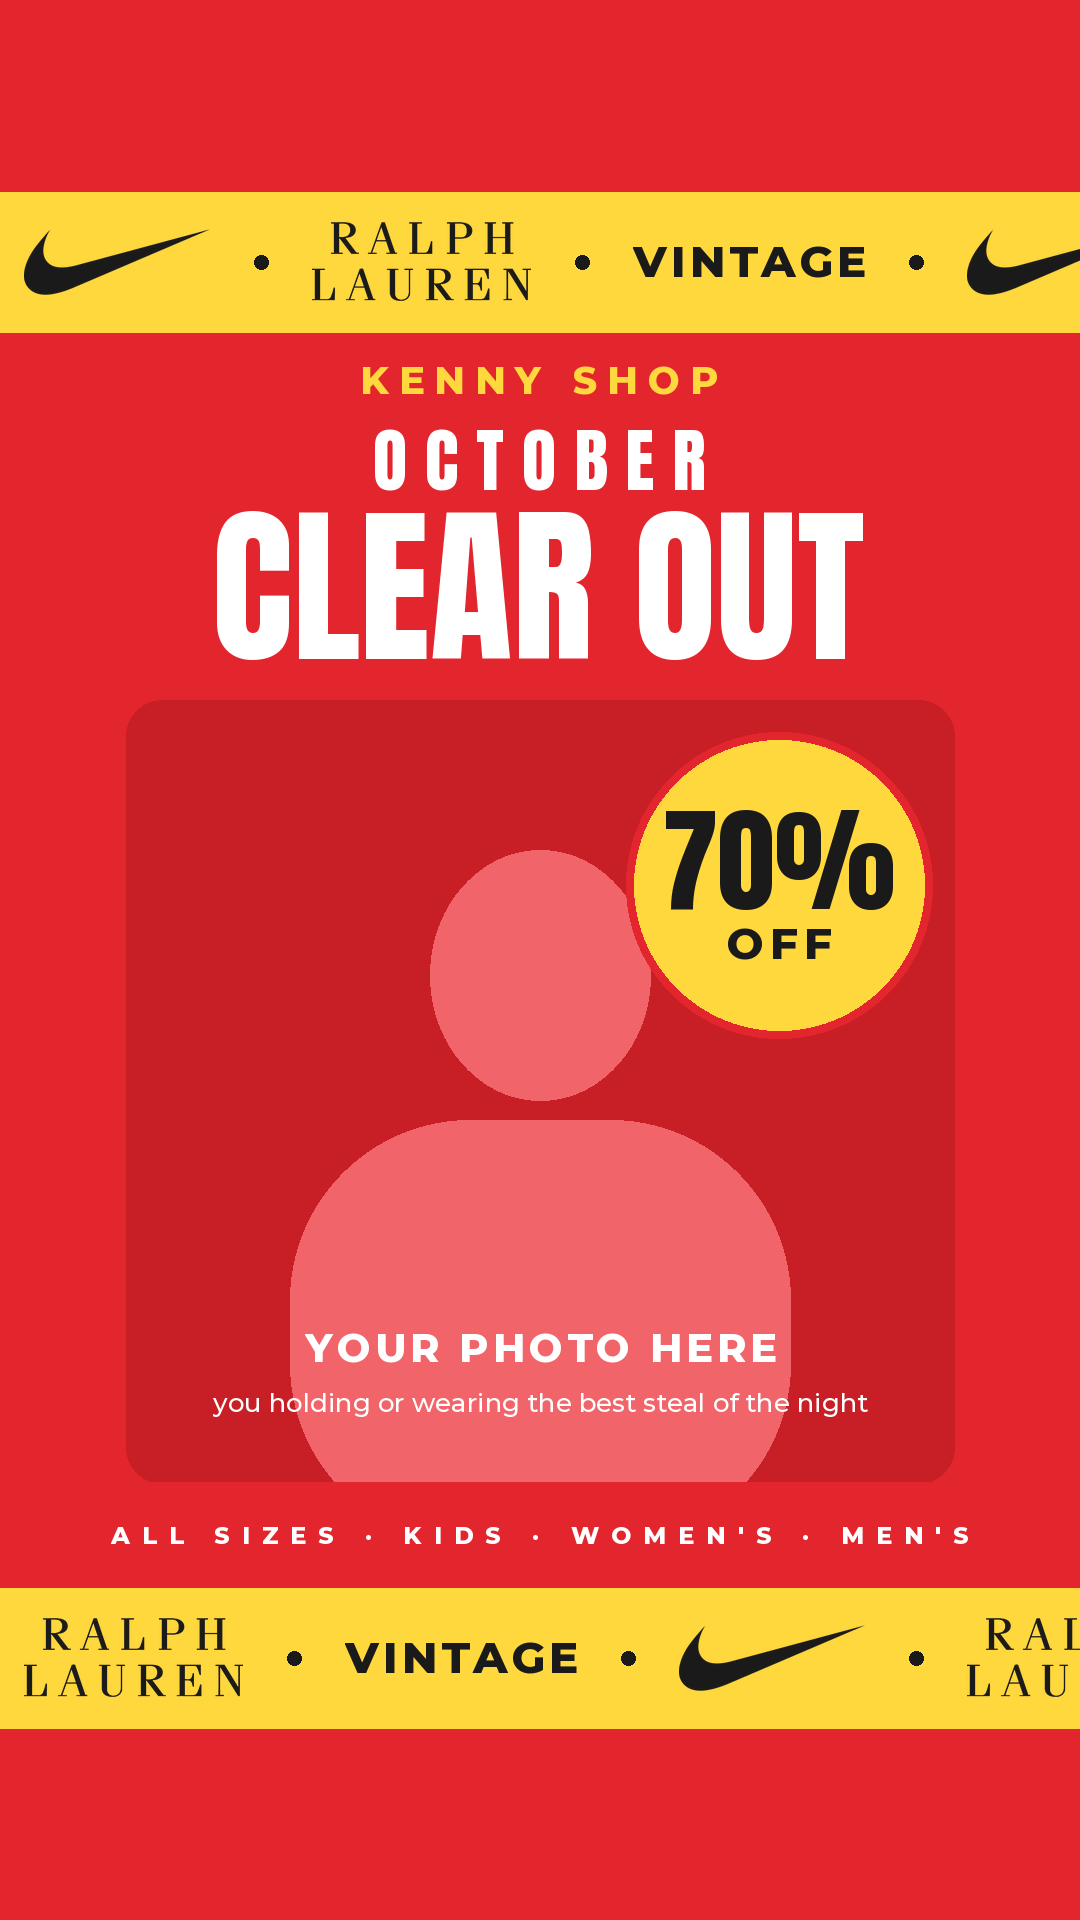
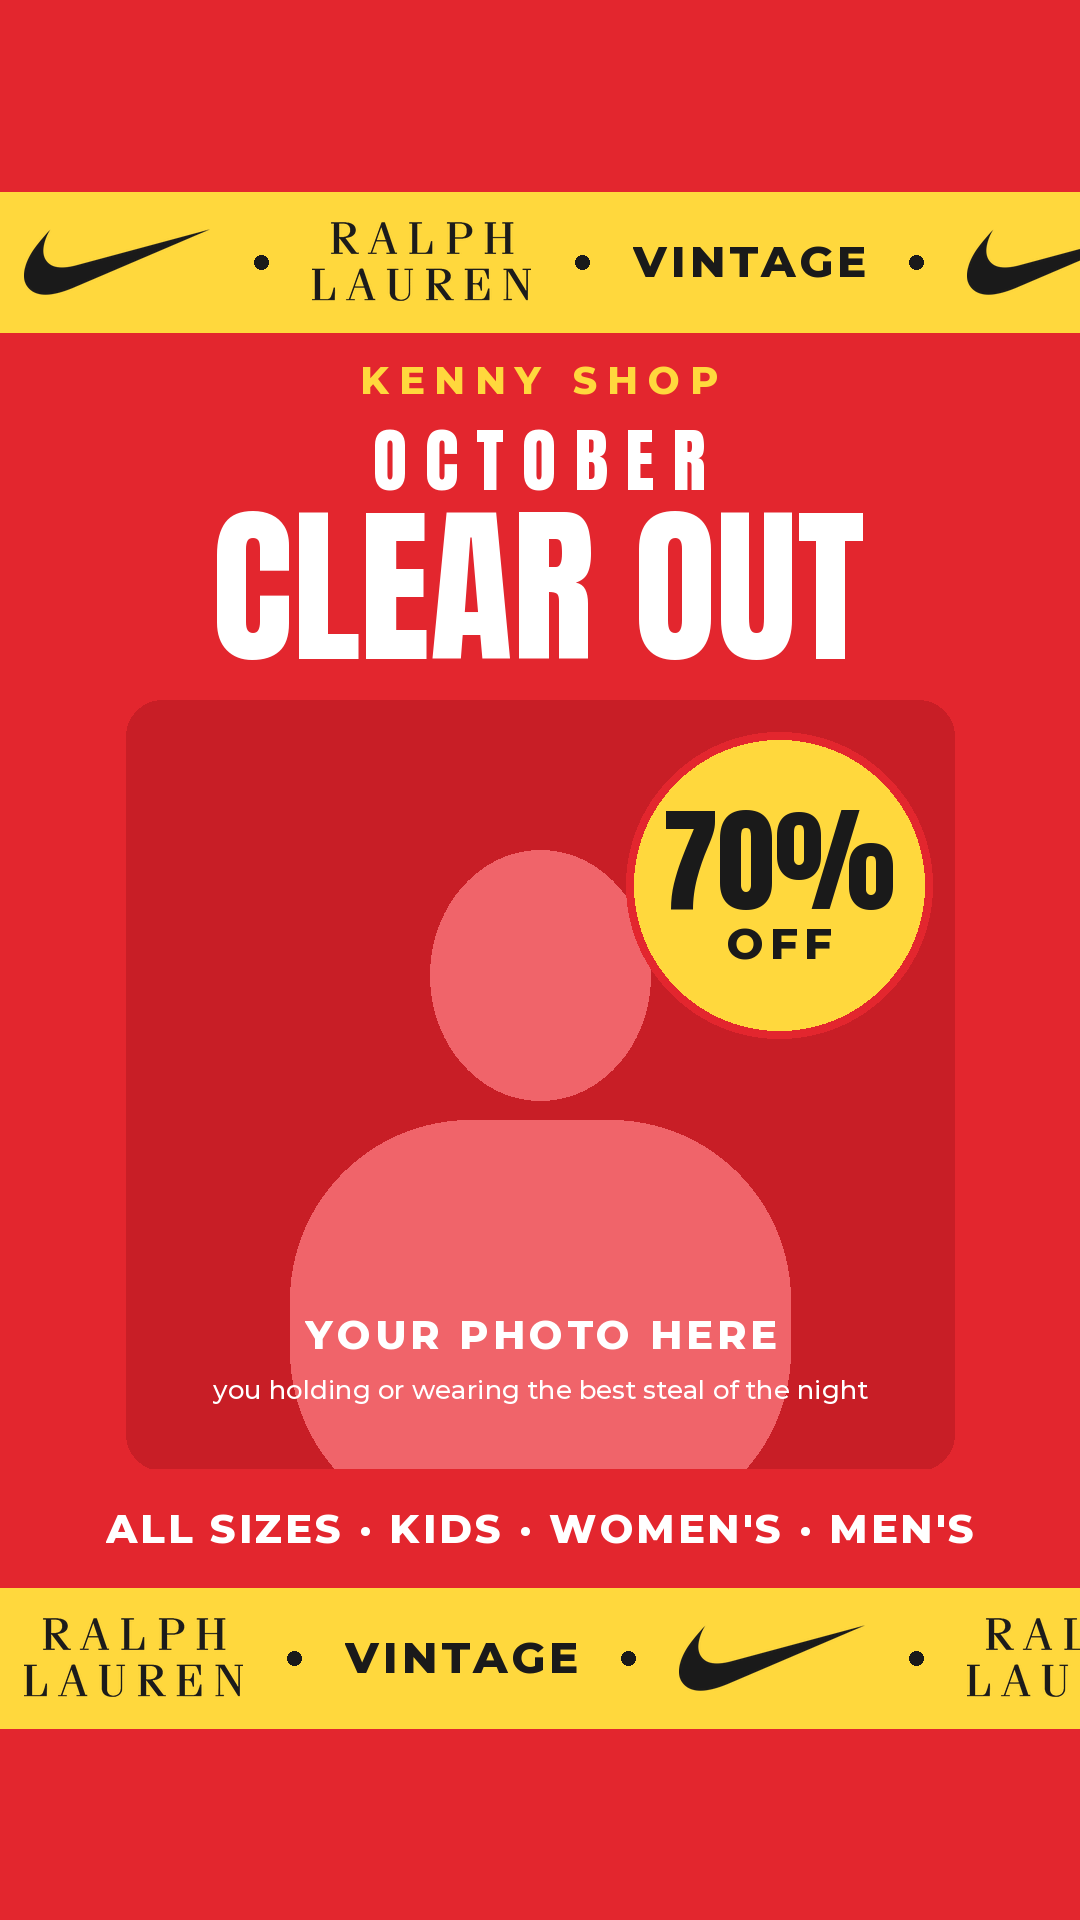
October Clear Out: finished cover with Jade's photo (kept local), bigger sizes line
Claude-Session: https://claude.ai/code/session_01Q51WZ95sB4G4SBq6JMRbx6

Changed region(s): [[0.0917, 0.6875, 0.9167, 0.8125]]

diff --git a/02-branding/whatnot-covers/make_covers.py b/02-branding/whatnot-covers/make_covers.py
@@ -78,7 +78,11 @@ SHOWS["october-clear-out"] = dict(
     top_size=70, badge_big="70%", badge_small="OFF", brand_font=SANS_B,
     brands=["NIKE", "RALPH LAUREN", "VINTAGE"],
     footer="ALL SIZES · KIDS · WOMEN'S · MEN'S", footer_font=SANS_B, footer_size=44, footer_ink="#FFFFFF",
-    photo_hint="you holding or wearing the best steal of the night",
+    footer_spacing=3, photo_hint="you holding or wearing the best steal of the night",
+)
+SHOWS["october-clear-out-photo"] = dict(
+    SHOWS["october-clear-out"], template=False, badge="bottom-right",  # badge off her face
+    photo=HERE / "photos" / "october-clear-out.png", crop=(0, 330, 1320, 1558),
 )
 
 # baby = newborn to 24 months; kids = toddler 2T through big-kid 16 (XL)
@@ -284,12 +288,12 @@ def build(name, s, out=None):
     footer = None
     if s.get("footer"):
         footer = fit_text(s["footer"], s.get("footer_font", SANS_B), inner, s.get("footer_size", 40),
-                          s.get("footer_ink", s["accent"]), spacing=12)
+                          s.get("footer_ink", s["accent"]), spacing=s.get("footer_spacing", 12))
     footer_h = footer.height + 52 if footer else 0
     photo_box = (sx0 + 40, y, sx1 - 40, sy1 - BAND - 36 - footer_h)
     draw_photo(c, s, photo_box)
     # badge="top-right" (default), "top-left" or "bottom-left": wherever it misses faces
-    spot = s.get("badge", "top-right")
+    spot = s.get("badge", "top-right")  # or "bottom-right"
     bx = photo_box[0] + 175 if spot.endswith("left") else photo_box[2] - 175
     by = photo_box[3] - 185 if spot.startswith("bottom") else photo_box[1] + 185
     badge(c, s, bx, by, 145)

diff --git a/02-branding/thumbnail-maker.md b/02-branding/thumbnail-maker.md
@@ -78,7 +78,8 @@ To use a different photo, put it in `photos/` and change `KID_PHOTOS` in `make_c
 - Colors: clearance red `#E3262E` · white `#FFFFFF` (headline, footer) · yellow `#FFD83D` (runners, Kenny Shop, badge) · near-black `#1A1A1A` (runner logos and badge text)
 - Fonts: Anton for the headline and "70%", Montserrat ExtraBold for everything else
 - Text: `OCTOBER CLEAR OUT` · badge `70% OFF` · `ALL SIZES · KIDS · WOMEN'S · MEN'S` · runners: Nike logo · Ralph Lauren logo · `VINTAGE`
-- Photo: you holding or wearing the best steal of the night
+- Photo: you holding or wearing the best steal of the night. Finished cover:
+  `final/october-clear-out-photo.png` (badge bottom-right so it stays off your face).
 
 ## Templates
 - Main cover photo (blank templates): `whatnot-covers/premium-contemporary.png`, `whatnot-covers/premium-activewear.png`,
